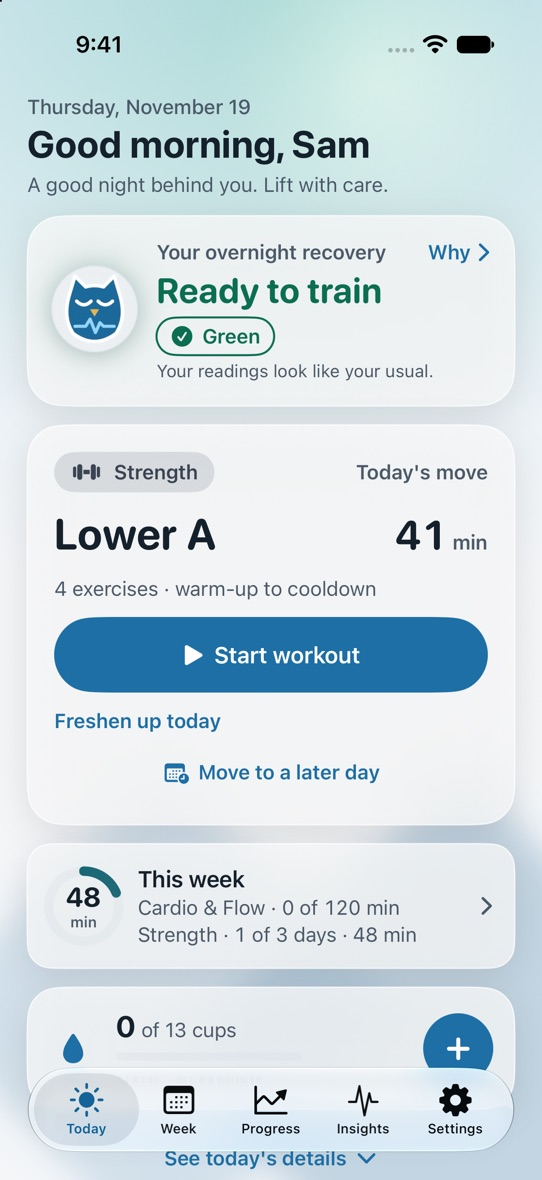
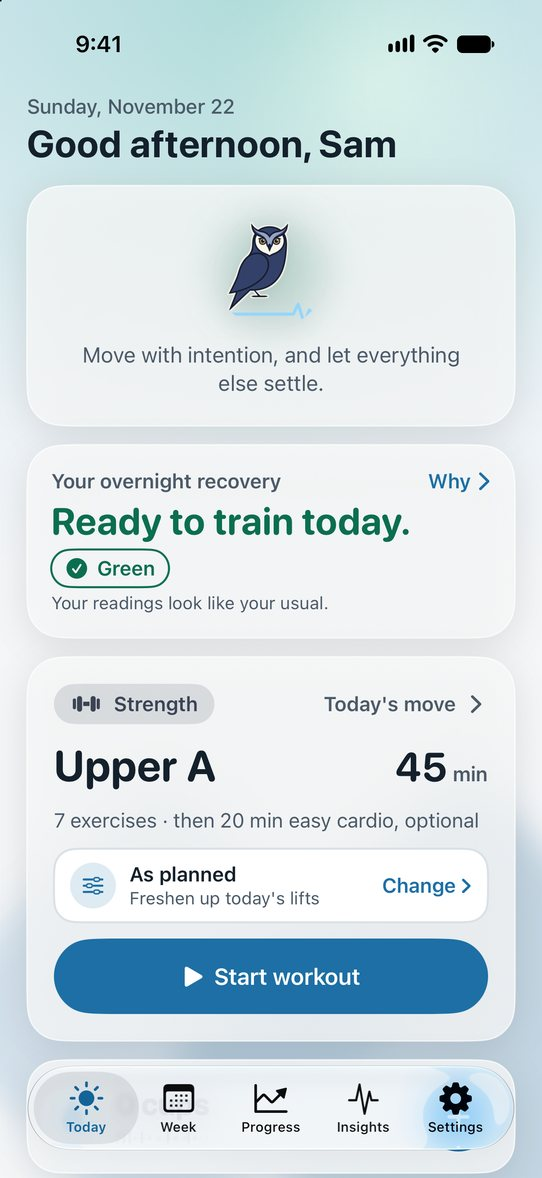
Website: Today screenshots retaken with the new owl
Sunlit, Alpine and Neon Today screens from the simulator (founder, Nov 22),
showing the Geometric 1 owl and today's layout.

Claude-Session: https://claude.ai/code/session_01LZq7Du4UX3rom5SxosVwE7

Changed region(s): [[0.0295, 0.0306, 0.9742, 1.0], [0.7085, 0.0306, 0.7675, 0.0611], [0.797, 0.0306, 0.8266, 0.0611]]

diff --git a/index.html b/index.html
@@ -285,7 +285,7 @@
     </div>
     <div class="phones" aria-label="OwlyGo's Today screen in the Sunlit and Alpine themes">
       <div class="phone back"><img src="assets/today_alpine.jpg" alt="OwlyGo Today screen in the Alpine theme"></div>
-      <div class="phone front"><img src="assets/today_sunlit.jpg" alt="OwlyGo Today screen: recovery status Green, Ready to train, with today's strength move, Lower A, 41 minutes"></div>
+      <div class="phone front"><img src="assets/today_sunlit.jpg" alt="OwlyGo Today screen: recovery status Green, Ready to train today, with today's strength move, Upper A, 45 minutes"></div>
       <div class="float-card" aria-hidden="true">
         <div class="dot">✓</div>
         <div><b>Ready to train</b><small>HRV 55 ms · usual 49–55</small></div>
